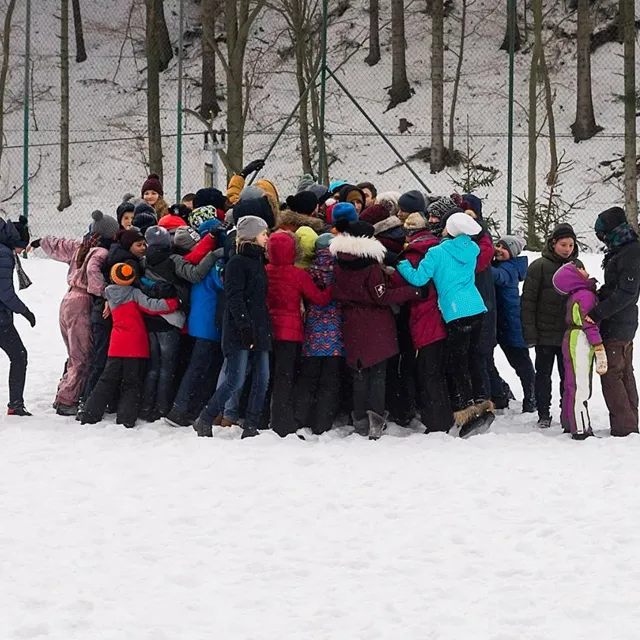
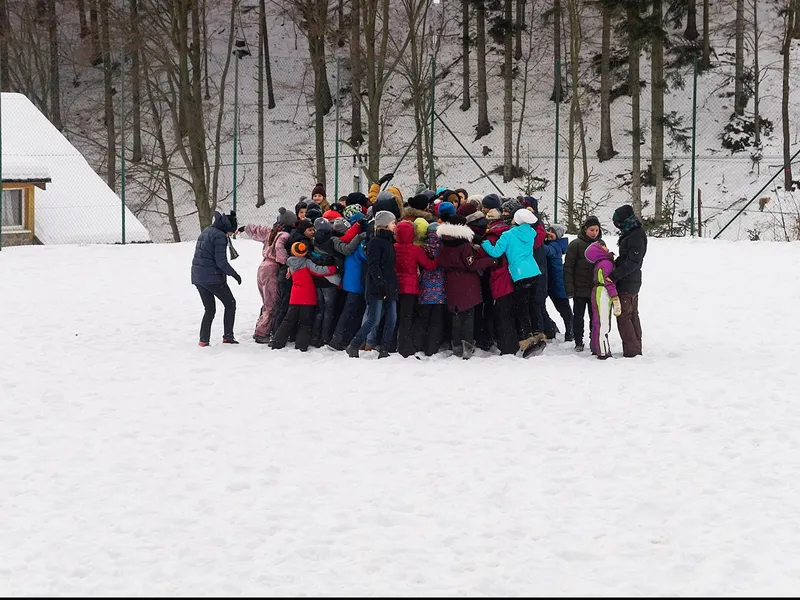
Mobile hero 2nd photo, scroll controls, route list first, day 9 photo, CTA collage

diff --git a/src/components/korea/SnapRow.tsx b/src/components/korea/SnapRow.tsx
@@ -1,4 +1,4 @@
-import type { ReactNode } from "react";
+import { useEffect, useRef, useState, type ReactNode } from "react";
 import { useMediaQuery } from "@/hooks/use-media-query";
 
 /** Tailwind breakpoints (rem, like Tailwind's own media queries). */
@@ -9,6 +9,11 @@ const GRID_FROM = {
   md: "md:mt-0 md:grid md:snap-none md:overflow-visible md:p-0",
   lg: "lg:mt-0 lg:grid lg:snap-none lg:overflow-visible lg:p-0",
 } as const;
+
+/** Hides the scroll controls from the breakpoint (static for Tailwind). */
+const HIDE_FROM = { md: "md:hidden", lg: "lg:hidden" } as const;
+
+type ScrollState = { ratio: number; pos: number; atStart: boolean; atEnd: boolean };
 
 type SnapRowProps = {
   /** Accessible name of the scroll region below the breakpoint, e.g. «Відгуки батьків, гортайте вбік». */
@@ -29,6 +34,10 @@ type SnapRowProps = {
  * prerendered HTML carries the mobile attributes; they are dropped after hydration on wide
  * screens. Only attributes change, so there is no layout shift.
  *
+ * Below the breakpoint a control bar sits under the row: a progress track (thumb = visible
+ * share of the row, moves with the scroll) and prev / next buttons that scroll by one card.
+ * It tells parents the cards scroll sideways; it is hidden from the breakpoint.
+ *
  * Spacing: the reference row has 8 px top padding, which clips the tape on Reviews cards.
  * Here it is 22 px (the rotated tape reaches about 21 px above a card) with a −14 px top
  * margin, so the cards stay exactly where the reference puts them.
@@ -36,13 +45,88 @@ type SnapRowProps = {
 export function SnapRow({ label, breakpoint = "lg", gridClassName = "", children }: SnapRowProps) {
   const isGrid = useMediaQuery(BREAKPOINT_QUERY[breakpoint], false);
   const regionProps = isGrid ? {} : ({ role: "region", "aria-label": label, tabIndex: 0 } as const);
+  const rowRef = useRef<HTMLDivElement>(null);
+  const [scroll, setScroll] = useState<ScrollState>({
+    ratio: 0.3,
+    pos: 0,
+    atStart: true,
+    atEnd: false,
+  });
+
+  useEffect(() => {
+    const el = rowRef.current;
+    if (!el || isGrid) return;
+    const update = () => {
+      const max = el.scrollWidth - el.clientWidth;
+      setScroll({
+        ratio: Math.min(1, el.clientWidth / el.scrollWidth),
+        pos: max > 0 ? el.scrollLeft / max : 0,
+        atStart: el.scrollLeft <= 4,
+        atEnd: el.scrollLeft >= max - 4,
+      });
+    };
+    update();
+    el.addEventListener("scroll", update, { passive: true });
+    window.addEventListener("resize", update);
+    return () => {
+      el.removeEventListener("scroll", update);
+      window.removeEventListener("resize", update);
+    };
+  }, [isGrid]);
+
+  const step = (dir: 1 | -1) => {
+    const el = rowRef.current;
+    if (!el) return;
+    const card = el.firstElementChild as HTMLElement | null;
+    const width = card ? card.getBoundingClientRect().width + 12 : el.clientWidth * 0.8;
+    el.scrollBy({ left: dir * width, behavior: "smooth" });
+  };
+
+  const btn =
+    "grid size-11 flex-none place-items-center rounded-full border-2 border-ink bg-paper-light text-[20px] leading-none font-black text-ink shadow-[3px_3px_0_#121212] transition-opacity disabled:opacity-30 disabled:shadow-none";
 
   return (
-    <div
-      {...regionProps}
-      className={`-mt-[14px] flex snap-x snap-mandatory gap-3 overflow-x-auto px-5 pt-[22px] pb-3 ${GRID_FROM[breakpoint]} ${gridClassName}`}
-    >
-      {children}
-    </div>
+    <>
+      <div
+        ref={rowRef}
+        {...regionProps}
+        className={`-mt-[14px] flex snap-x snap-mandatory gap-3 overflow-x-auto px-5 pt-[22px] pb-3 ${GRID_FROM[breakpoint]} ${gridClassName}`}
+      >
+        {children}
+      </div>
+      <div className={`flex items-center gap-3 px-5 pt-2 ${HIDE_FROM[breakpoint]}`}>
+        <span
+          aria-hidden="true"
+          className="relative h-1.5 flex-1 overflow-hidden rounded-full"
+          style={{ background: "rgba(18,18,18,.14)" }}
+        >
+          <span
+            className="absolute inset-y-0 rounded-full bg-ink"
+            style={{
+              width: `${scroll.ratio * 100}%`,
+              left: `${scroll.pos * (1 - scroll.ratio) * 100}%`,
+            }}
+          />
+        </span>
+        <button
+          type="button"
+          className={btn}
+          onClick={() => step(-1)}
+          disabled={scroll.atStart}
+          aria-label="Попередня картка"
+        >
+          ←
+        </button>
+        <button
+          type="button"
+          className={btn}
+          onClick={() => step(1)}
+          disabled={scroll.atEnd}
+          aria-label="Наступна картка"
+        >
+          →
+        </button>
+      </div>
+    </>
   );
 }

diff --git a/src/components/korea/FinalCTA.tsx b/src/components/korea/FinalCTA.tsx
@@ -8,9 +8,9 @@ const tilt = (deg: number) => ({ "--tilt": `${deg}deg` }) as CSSProperties;
 
 /**
  * Final CTA from 10-form (#contact) with the lead form (#form).
- * Below lg (md–lg centred at 640 px): text, collage (350 × 340 px box), form.
- * From lg: two columns, text + collage (420 px box) left, form right.
- * Collage pieces keep the reference px positions. The lime spray carries the page's only
+ * Below lg (md–lg centred at 640 px): text, collage (350 × 370 px box), form.
+ * From lg: two columns, text + collage (400 px box) left, form right.
+ * Collage: top row spray + SEOUL polaroid side by side, bottom row note + arrow towards the form. The lime spray carries the page's only
  * «KOREA '27». The section clips its overflow, as in the reference.
  */
 export function FinalCTA() {
@@ -32,9 +32,9 @@ export function FinalCTA() {
             квитків до візи.
           </p>
 
-          <div className="relative my-1 h-[340px] md:w-[350px] lg:mt-2 lg:mb-0 lg:h-[420px] lg:w-auto">
-            <div className="pk-spray absolute top-[10px] left-[-10px] box-border h-[210px] w-[300px] px-9 py-[30px] lg:top-5 lg:left-[-20px] lg:h-[300px] lg:w-[460px] lg:px-[72px] lg:py-14">
-              <p className="pk-slogan text-center text-[64px] lg:text-[96px]">
+          <div className="relative my-1 h-[370px] md:w-[350px] lg:mt-4 lg:mb-0 lg:h-[400px] lg:w-auto">
+            <div className="pk-spray absolute top-[6px] left-[-10px] box-border h-[190px] w-[250px] px-7 py-[26px] lg:top-0 lg:left-[-20px] lg:h-[250px] lg:w-[360px] lg:px-12 lg:py-10">
+              <p className="pk-slogan text-center text-[54px] lg:text-[80px]">
                 KOREA
                 <br />
                 &apos;27
@@ -42,16 +42,16 @@ export function FinalCTA() {
             </div>
 
             <figure
-              className="pk-photo absolute top-[150px] right-[-6px] m-0 w-[120px] lg:top-[170px] lg:right-auto lg:left-[490px] lg:w-[140px]"
-              style={tilt(5)}
+              className="pk-photo absolute top-[112px] right-[-4px] m-0 w-[200px] lg:top-[24px] lg:right-auto lg:left-[330px] lg:w-[250px]"
+              style={tilt(4)}
             >
               <span className="pk-photo__tape" />
               <span className="pk-photo__paper">
                 <img
                   src={photoSignRooftop}
                   alt="Напис SEOUL на даху на тлі хмарочосів"
-                  width={320}
-                  height={270}
+                  width={900}
+                  height={759}
                   loading="lazy"
                   className="block w-full"
                 />
@@ -59,7 +59,7 @@ export function FinalCTA() {
             </figure>
 
             <img
-              className="pk-sticker absolute top-[118px] right-[70px] w-[60px] lg:top-24 lg:right-auto lg:left-[520px] lg:w-20"
+              className="pk-sticker absolute top-[88px] right-[-6px] w-[54px] lg:top-[4px] lg:right-auto lg:left-[540px] lg:w-[72px]"
               src={sakuraSticker}
               alt=""
               width={226}
@@ -69,14 +69,14 @@ export function FinalCTA() {
             />
 
             <span
-              className="pk-note absolute top-[262px] left-5 lg:top-[330px] lg:left-[260px] lg:text-[44px] lg:leading-[1.05]"
+              className="pk-note absolute top-[296px] left-2 lg:top-[300px] lg:left-[60px] lg:text-[44px] lg:leading-[1.05]"
               style={tilt(-5)}
             >
               до зустрічі!
             </span>
 
             <img
-              className="pk-mark top-[262px] left-[170px] w-[76px] rotate-[60deg] lg:top-[300px] lg:left-[470px] lg:w-[110px] lg:-rotate-[8deg]"
+              className="pk-mark top-[300px] left-[176px] w-[64px] rotate-[20deg] lg:top-[262px] lg:left-[300px] lg:w-[100px] lg:-rotate-[8deg]"
               src={markerArrow}
               alt=""
               width={240}

diff --git a/src/components/korea/GroupCollage.tsx b/src/components/korea/GroupCollage.tsx
@@ -6,7 +6,7 @@ import pcNara from "@/assets/korea/pointcamp/pc-nara.webp";
 import pcAdriatic from "@/assets/korea/pointcamp/pc-adriatic.webp";
 import pcShibuya from "@/assets/korea/pointcamp/pc-shibuya.webp";
 
-/* ---------- Data (edit here). Own PointCamp photos from past trips and camps, all square. */
+/* ---------- Data (edit here). Own PointCamp photos from past trips and camps, square, the winter one 4:3. */
 
 type Box = { top: string; left: string; width: string };
 
@@ -15,6 +15,8 @@ type CollagePhoto = {
   alt: string;
   label: string;
   tilt: number;
+  /** Photo ratio; default square. */
+  landscape?: boolean;
   /** Position in % of the collage box. `mobile: false` hides the photo below lg. */
   mobile: false | Box;
   desktop: Box;
@@ -27,7 +29,7 @@ const PHOTOS: CollagePhoto[] = [
     label: "Токіо",
     tilt: -4,
     mobile: { top: "0%", left: "0%", width: "56%" },
-    desktop: { top: "0%", left: "0%", width: "37%" },
+    desktop: { top: "0%", left: "0%", width: "33%" },
   },
   {
     src: pcCroatiaKayak,
@@ -35,15 +37,16 @@ const PHOTOS: CollagePhoto[] = [
     label: "Хорватія",
     tilt: 4,
     mobile: { top: "3%", left: "44%", width: "56%" },
-    desktop: { top: "3%", left: "32%", width: "36%" },
+    desktop: { top: "4%", left: "28%", width: "32%" },
   },
   {
     src: pcWinter,
     alt: "Зимовий табір PointCamp: група обіймається на засніженому полі",
     label: "Зимовий табір",
     tilt: -2,
-    mobile: { top: "52%", left: "22%", width: "56%" },
-    desktop: { top: "0%", left: "63%", width: "37%" },
+    landscape: true,
+    mobile: { top: "50%", left: "12%", width: "76%" },
+    desktop: { top: "1%", left: "56%", width: "44%" },
   },
   {
     src: pcNara,
@@ -74,7 +77,9 @@ const PHOTOS: CollagePhoto[] = [
 const vars = (p: CollagePhoto) =>
   ({
     "--tilt": `${p.tilt}deg`,
-    ...(p.mobile ? { "--m-top": p.mobile.top, "--m-left": p.mobile.left, "--m-w": p.mobile.width } : {}),
+    ...(p.mobile
+      ? { "--m-top": p.mobile.top, "--m-left": p.mobile.left, "--m-w": p.mobile.width }
+      : {}),
     "--d-top": p.desktop.top,
     "--d-left": p.desktop.left,
     "--d-w": p.desktop.width,
@@ -100,10 +105,10 @@ export function GroupCollage({ caption }: { caption: string }) {
               <img
                 src={p.src}
                 alt={p.alt}
-                width={640}
-                height={640}
+                width={p.landscape ? 800 : 640}
+                height={p.landscape ? 600 : 640}
                 loading="lazy"
-                className="block aspect-square w-full object-cover"
+                className={`block w-full object-cover ${p.landscape ? "aspect-[4/3]" : "aspect-square"}`}
               />
               <span className="pk-polaroid__caption">{p.label}</span>
             </span>

diff --git a/src/components/korea/Hero.tsx b/src/components/korea/Hero.tsx
@@ -74,7 +74,7 @@ export function Hero() {
           </div>
         </div>
 
-        <div className="relative mt-4 h-[330px] lg:mt-0 lg:h-[640px]">
+        <div className="relative mt-4 h-[430px] lg:mt-0 lg:h-[640px]">
           <figure
             className="pk-photo absolute top-[24px] left-[4px] m-0 w-[300px] lg:top-[30px] lg:left-[10px] lg:w-[400px]"
             style={tilt(-3)}
@@ -88,6 +88,23 @@ export function Hero() {
                 height={360}
                 loading="eager"
                 fetchPriority="high"
+              />
+            </span>
+          </figure>
+
+          <figure
+            className="pk-photo pk-photo--b absolute top-[196px] right-0 m-0 w-[236px] lg:hidden"
+            style={tilt(4)}
+          >
+            <span className="pk-photo__tape" />
+            <span className="pk-photo__paper">
+              <img
+                src={photoHaeundae}
+                alt="Пляж Хеунде в Пусані і хмарочоси над ним"
+                width={440}
+                height={330}
+                loading="lazy"
+                className="aspect-[4/3] object-cover object-[50%_35%]"
               />
             </span>
           </figure>
@@ -110,7 +127,7 @@ export function Hero() {
           </figure>
 
           <img
-            className="pk-mark top-[169px] left-[65px] w-[100px] lg:top-[232px] lg:left-[87px] lg:w-[140px]"
+            className="pk-mark top-[214px] left-[10px] w-[90px] lg:top-[232px] lg:left-[87px] lg:w-[140px]"
             src={markerArrow}
             alt=""
             width={240}
@@ -119,7 +136,7 @@ export function Hero() {
           />
 
           <span
-            className="pk-note absolute top-[268px] left-[85px] lg:top-[372px] lg:left-[130px]"
+            className="pk-note absolute top-[300px] left-0 lg:top-[372px] lg:left-[130px]"
             style={tilt(-6)}
           >
             ханбоки!

diff --git a/src/components/korea/Route.tsx b/src/components/korea/Route.tsx
@@ -57,7 +57,7 @@ const tilt = (deg: number) => ({ "--tilt": `${deg}deg` }) as CSSProperties;
 
 /**
  * Route from 07-route (#route): intro, map card with overlays, legs list.
- * Below lg: text, map, list stacked (the left-column wrapper is `display: contents`, so the
+ * Below lg: text, list, map stacked (the left-column wrapper is `display: contents`, so the
  * map can sit between intro and list). From lg: text + list left, map right (max 520 px,
  * centred), both vertically centred. The map overlays repeat the list and are aria-hidden.
  */
@@ -82,7 +82,7 @@ export function Route() {
             </p>
           </div>
 
-          <ol className="order-3 m-0 list-none border-t-2 border-ink p-0 lg:order-none lg:mt-2">
+          <ol className="order-2 m-0 list-none border-t-2 border-ink p-0 lg:order-none lg:mt-2">
             {LEGS.map((leg) => (
               <li
                 key={leg.title}
@@ -115,7 +115,7 @@ export function Route() {
           </ol>
         </div>
 
-        <div className="order-2 lg:order-none lg:w-full lg:max-w-[520px] lg:justify-self-center">
+        <div className="order-3 lg:order-none lg:w-full lg:max-w-[520px] lg:justify-self-center">
           <div
             className="rounded-sm border-2 border-ink bg-paper-light bg-[size:26px_26px] bg-[position:0_0] bg-repeat px-3.5 pt-[18px] pb-1 shadow-hard"
             style={{ backgroundImage: `url(${lattice})` }}

diff --git a/src/components/korea/Program.tsx b/src/components/korea/Program.tsx
@@ -165,7 +165,7 @@ const TIMELINE: (CityRow | DayRow)[] = [
       src: photoSeoulShop,
       width: 560,
       height: 440,
-      alt: "Вечірня вулиця Мьондону з вивісками магазинів косметики й канцелярії",
+      alt: "Вулиця Мьондону вдень: магазини косметики й канцелярії ART BOX",
     },
   },
   {

diff --git a/src/assets/korea/PHOTO-CREDITS.md b/src/assets/korea/PHOTO-CREDITS.md
@@ -7,7 +7,7 @@
 | photo-seoul-hanbok.webp | Ханбоки біля брами Gwanghwamun | https://unsplash.com/photos/nRUl54RIPeE (Hsinkai Tai) |
 | photo-seoul-han-river.webp | Річка Хан, Lotte World Tower | https://unsplash.com/photos/2csH9SjutAM (Jiwon Kang) |
 | photo-seoul-neon-street.webp | Вечірня вулиця з неоном | https://unsplash.com/photos/… (photo-1517154421773) |
-| photo-seoul-shop.webp | Мьондон, вивіски ARITAUM, ART BOX | https://unsplash.com/photos/voS-uCTrRvE (Chrishaun Byrom) |
+| photo-seoul-shop.webp | Мьондон удень, ART BOX | https://unsplash.com/photos/-sUFxh7wQqY (uchiha) |
 | photo-seoul-korea-university.webp | Головний корпус Korea University, колір виправлено | https://unsplash.com/photos/bsAIWt5T4aY (Ryoo Geon Uk) |
 | photo-busan-coast.webp | Трамвайчики Blueline Park, Haeundae | https://unsplash.com/photos/SHAyPdfOUP0 (Jaythen Bag-ayan) |
 | photo-busan-haeundae.webp | Хеунде, вежа LCT | busan-2.jpg (Drive) |
